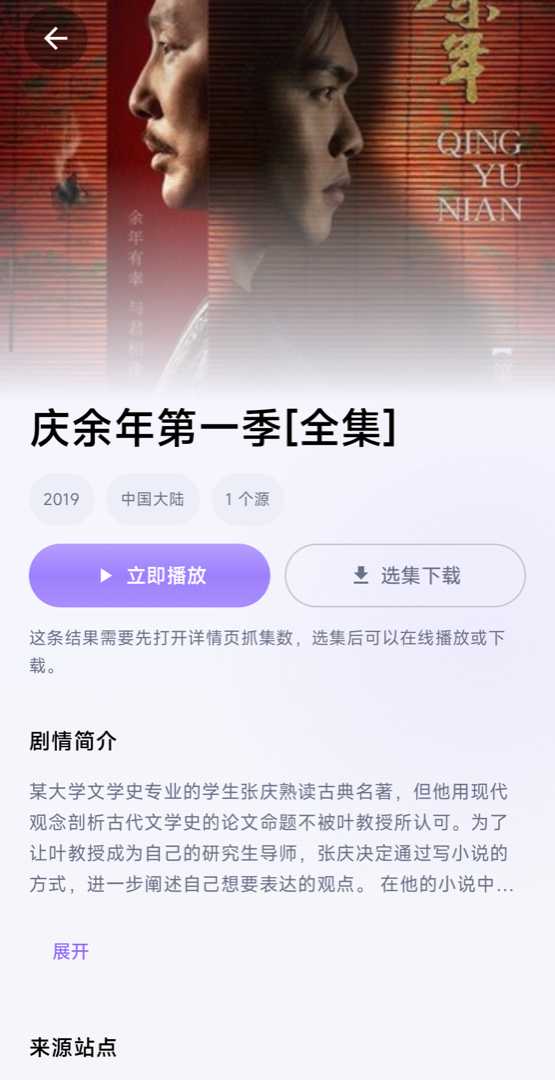
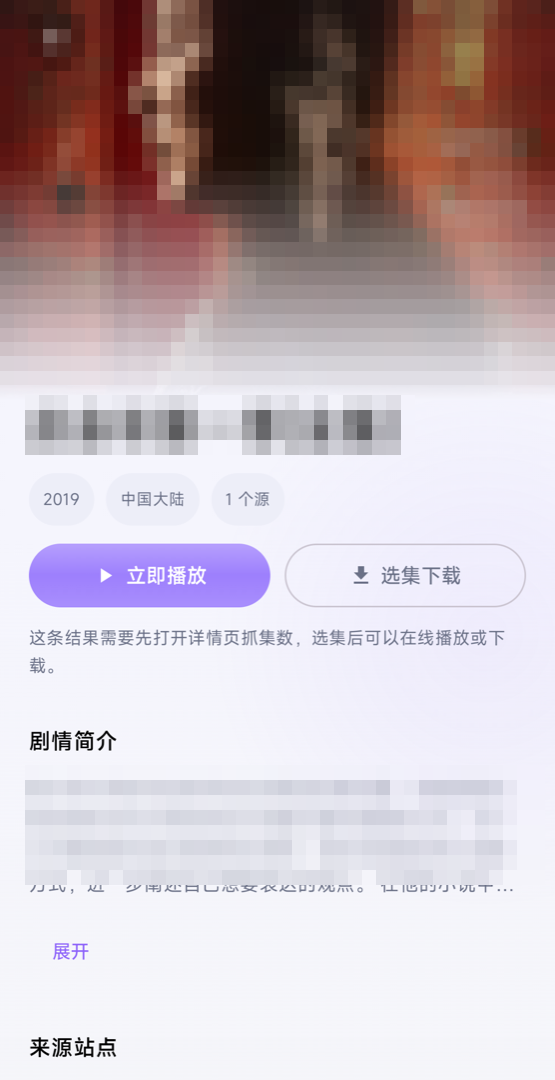
README 截图合规处理：海报与片名打码
- 六张截图内的真实海报、片名、搜索历史、热搜榜、简介与播放标题全部像素化，
  不再出现可识别的第三方剧集素材（海报是版权图，片名+源标注组合易被认定为
  演示聚合侵权内容）
- README 说明改为如实的「已打码」，替换原先与截图矛盾的「演示数据」表述

diff --git a/README.md b/README.md
@@ -28,7 +28,7 @@
 |:---:|:---:|:---:|
 | <img src="docs/screens/detail.png" width="200"> | <img src="docs/screens/downloads.png" width="200"> | <img src="docs/screens/player.png" width="340"> |
 
-> 截图中的订阅源与片单均为演示数据；本仓库不内置任何视频源。
+> 截图中的海报与片名均已打码处理；本仓库不内置任何视频源，源列表初始为空。
 
 ## 构建
 
